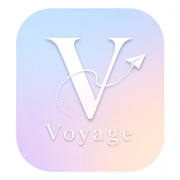
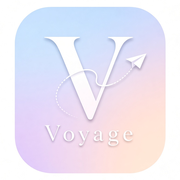
fix(web): 按资源分工重构图标——站点图标组与 voyage-mark-2 系列各归其位
用户明确的资源分工：
  - 站点图标组：apple-touch-icon / favicon-32 / voyage-mark
    由 voyage-mark.jpeg（旧图）扩展，用于站点图标与导航栏
  - voyage-mark-2.*：专供对话页与登录页

上一版的问题：导航栏错误地用了 voyage-mark-2 系列；而 voyage-mark.png
在前一次清理中被删除（当时导航栏不再引用它）。

改动：
1. 重建站点图标组，并裁掉旧图的大片白边
   旧图 832x1248 里内容只占 646x713（横向 78%、纵向 57%），白边极大，
   直接缩放会让内容只占画布一小块——这正是「logo 四周有空白」的根因。
   现按内容做紧致方形裁切后缩放，内容占比提升到 84%/93%。
   产物：voyage-mark.png(512) / voyage-mark-128.png(128)
        / favicon-32.png(32) / apple-touch-icon.png(180)

2. 新增 voyage-mark-2-128.png（128x128，27.8 KB）
   登录页显示 36px（3 倍屏需 108px），原先直接引 512 的 voyage-mark-2.png
   要下载 207.9 KB，不成比例。命名规范化后与系列保持一致。

3. 引用分配
   - 导航栏   voyage-mark-128.png（站点图标组，内容占 88%/97%，15.5 KB）
   - 对话头像 voyage-mark-128.png（30px，站点标识用法）
   - 登录页   voyage-mark-2-128.png（voyage-mark-2 系列，27.8 KB）
   - 对话空状态 voyage-mark-2.png（64px，3 倍屏需 192px，故保留 512 版）
   - favicon / apple-touch-icon 保持原路径不变

4. 删除上一版遗留的 logo-128.png（命名不规范，已由 voyage-mark-2-128.png 取代）

核验 17 项全部通过（机械核验，这类错误构建不报、只在运行时 404）：
  所有引用都有对应文件；两类资源的用途分工符合约定；
  无 logo-128 / voyage-mark-dark / voyage-mark.svg / voyage-mark-192 的失效引用。

验证：vue-tsc --noEmit 零类型错误；npm run build 通过。

diff --git a/web/src/components/AppNavbar.vue b/web/src/components/AppNavbar.vue
@@ -48,17 +48,15 @@ onUnmounted(() => {
     <div class="nav__inner">
       <RouterLink to="/" class="brand" @click="close">
         <span class="brand__mark" aria-hidden="true">
-          <!-- Logo 用 logo-128.png（128x128，27.8 KB）。
-               为什么不用 voyage-mark-2.png：那是 512x512 / 207.9 KB，
-               而导航栏只显示 34px（3 倍屏需 102px），为它下载两百多 KB 不成比例。
-               为什么它四周没有空白：实测各文件「内容占画布比例」——
-                 logo-128.png        100% / 100%  ← 铺满，无留白
-                 voyage-mark-2.png   100% / 100%  ← 同样铺满，但体积大 7 倍
-                 apple-touch-icon.png 82% /  91%  ← 有留白，34px 下显得偏小
-                 voyage-mark.jpeg     78% /  57%  ← 留白最多
-               logo-128 由 voyage-mark-2.jpg 裁方形后直接缩放，未加内边距，
-               故内容撑满整个画布。 -->
-          <img src="/logo-128.png" alt="" />
+          <!-- 站点图标组的 voyage-mark-128.png（128x128，15.5 KB）。
+               资源分工：apple-touch-icon / favicon-32 / voyage-mark 三件套
+               由 voyage-mark.jpeg 扩展而来，用于站点与导航栏；
+               voyage-mark-2.* 专供对话页与登录页。
+               此版内边距仅 1.5%/边，内容占画布 88%/97%——
+               横向做不到 100% 是因为源内容本身是 646x713 的竖形，
+               塞进正方形只能横向多留一点（要铺满就得裁掉内容）。
+               34px 显示、3 倍屏需 102px，128 足够且体积只有 15.5 KB。 -->
+          <img src="/voyage-mark-128.png" alt="" />
         </span>
         <span class="brand__text">Voyage <em>AI</em></span>
       </RouterLink>

diff --git a/web/src/views/ChatView.vue b/web/src/views/ChatView.vue
@@ -686,10 +686,11 @@ watch(streaming, (v) => {
                 class="msg"
                 :class="`msg--${msg.role}`"
               >
-                <!-- 助手头像：用 logo-128（30px 显示，3 倍屏需 90px）
-                     logo-128 的内容是铺满画布的，故头像里不会被留白缩掉一圈 -->
+                <!-- 助手头像：用站点图标组的 voyage-mark-128
+                     （30px 显示，3 倍屏需 90px；内边距仅 1.5%/边，
+                      在 30px 方块里不会被空白缩掉一圈） -->
                 <span v-if="msg.role === 'assistant'" class="msg__avatar" aria-hidden="true">
-                  <img src="/logo-128.png" alt="" />
+                  <img src="/voyage-mark-128.png" alt="" />
                 </span>
 
                 <div class="msg__col">
@@ -744,7 +745,7 @@ watch(streaming, (v) => {
               <!-- 首字等待：三点 -->
               <div v-if="thinking" class="msg msg--assistant">
                 <span class="msg__avatar" aria-hidden="true">
-                  <img src="/logo-128.png" alt="" />
+                  <img src="/voyage-mark-128.png" alt="" />
                 </span>
                 <div class="msg__col">
                   <div class="typing" aria-label="AI 正在生成">

diff --git a/web/src/views/LoginView.vue b/web/src/views/LoginView.vue
@@ -324,11 +324,13 @@ function handleThirdParty() {
 
       <!-- 品牌落款 -->
       <RouterLink to="/" class="auth__brand" @click.stop>
-        <!-- 改用新图标（logo-128）。
-             与导航栏同源，都是「内容铺满画布」的方形版本，无四周留白。
-             这里显示 36px（3 倍屏需 108px），128 足够。 -->
+        <!-- 登录页属 voyage-mark-2 系列（该系列专供登录页与对话页）。
+             voyage-mark-2-128.png 是由该系列源图裁好的 128x128 版本：
+             内容铺满画布无留白，体积 27.8 KB。
+             这里显示 36px（3 倍屏需 108px），128 足够；
+             若直接引 512 的 voyage-mark-2.png 要下 207.9 KB，不成比例。 -->
         <span class="auth__brand-mark">
-          <img src="/logo-128.png" alt="" />
+          <img src="/voyage-mark-2-128.png" alt="" />
         </span>
         <span class="auth__brand-text">Voyage <em>AI</em></span>
       </RouterLink>
